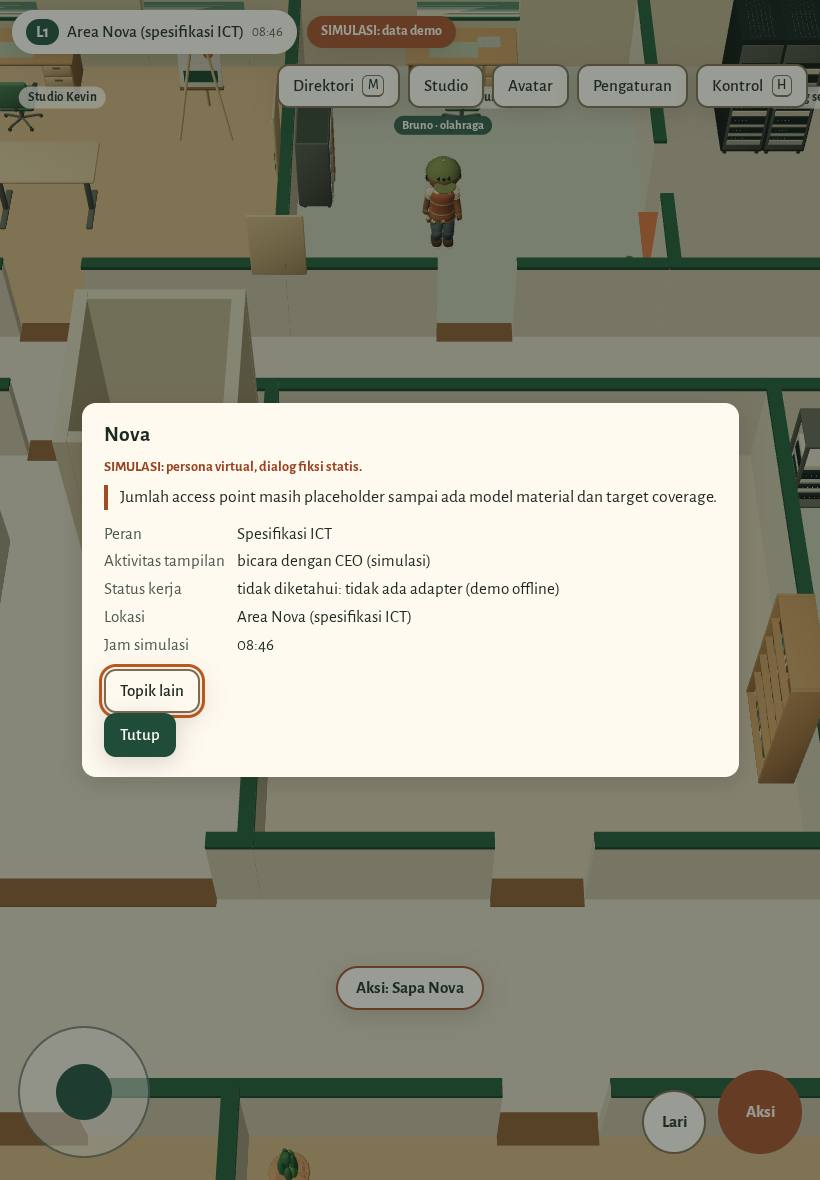
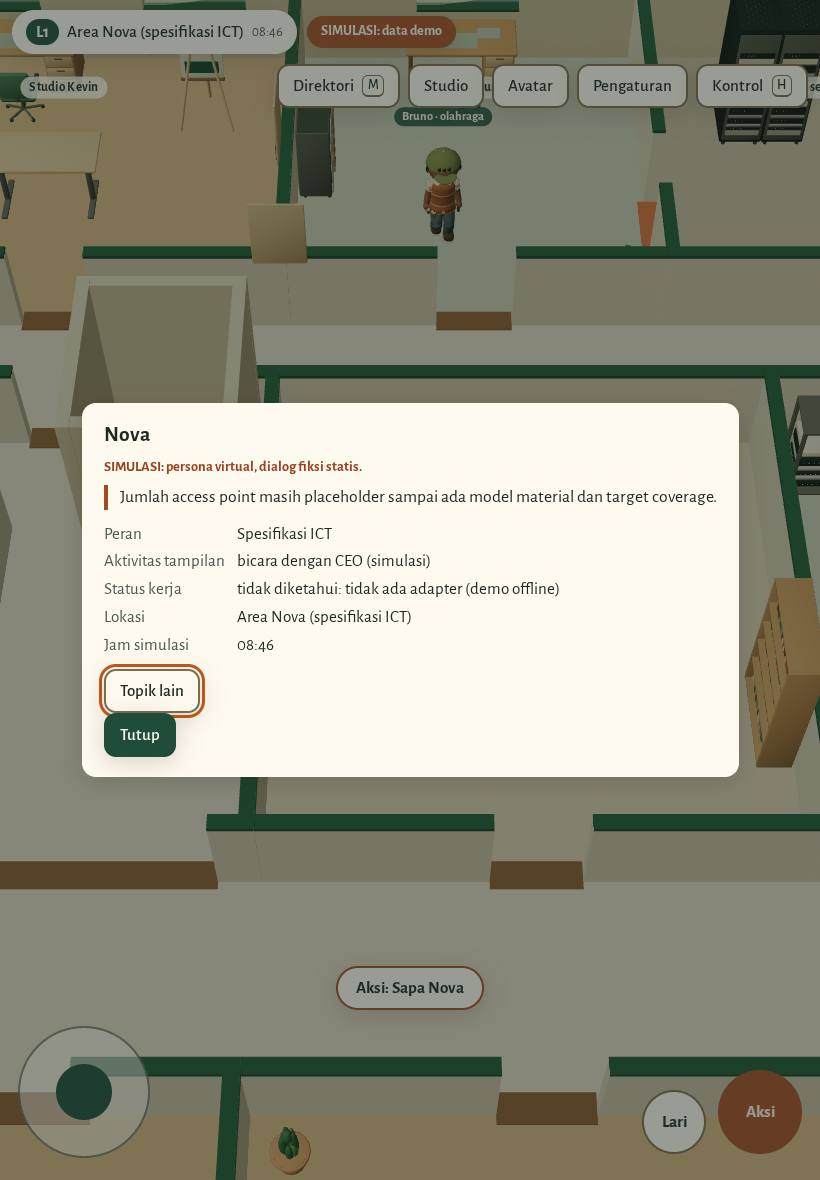
Evidence: full browser regression, unskipped touch tests, CSP check
Full run desktop/tablet/mobile: 117 passed, 0 failed, 9 skipped (run
started before three tests were unskipped; those ran separately: 10/10).
The proposed preview CSP was tested with scripts/serve-csp.mjs: the first
version blocked GLTFLoader blob: texture fetches (run1 log, 2 failures);
connect-src 'self' blob: fixes it (24/24 desktop specs).

Claude-Session: https://claude.ai/code/session_01AU9ZR7KSPvCHqU8yFcUYNn

diff --git a/docs/requirements-matrix.md b/docs/requirements-matrix.md
@@ -1,6 +1,6 @@
 # Matriks requirement
 
-Dibuat dari `design/requirements.json` oleh `tools/req_matrix.py` (basis commit b23a0ea; evidence menunjuk file di repo).
+Dibuat dari `design/requirements.json` oleh `tools/req_matrix.py` (basis commit 4b10b0b; evidence menunjuk file di repo).
 Status hanya 'terverifikasi' bila bagian itu punya evidence file hasil eksekusi pada commit tercatat. Evidence kosong = belum diuji.
 
 | REQ | Milestone | Bagian | Test | Evidence | Status |
@@ -12,7 +12,7 @@ Status hanya 'terverifikasi' bila bagian itu punya evidence file hasil eksekusi 
 | REQ-CHAR-01 | M1/M2 | M0 data: actor record, role, homeSeat, simulated=true | tools/validate_world.py::actors_home_seats_exist<br>design/world.schema.json | docs/evidence/M0/validate-world.json | terverifikasi |
 | REQ-CHAR-01 | M1/M2 | M1 asset: 7 GLB karakter original, registry, 13 animasi, reopen/validate | blender/validate_assets.py<br>tests/py/test_assets.py | docs/evidence/M1/blender-validate.json<br>docs/evidence/M1/blender-validate-rerun.txt<br>assets/previews/ch-ceo-sheet.png | terverifikasi |
 | REQ-CHAR-01 | M1/M2 | M2 runtime: NPC spawn, label peran, animasi per aktivitas | app/tests/e2e/npc.spec.ts | docs/evidence/M2/e2e-all.txt<br>docs/evidence/M2/screenshots/desktop-npcs.jpg<br>docs/evidence/M2/e2e-npc-blueprint-rerun.txt | terverifikasi |
-| REQ-CHAR-01 | M1/M2 | Hardening: atlas 1 material per karakter, LOD1 <= 5k triangle (4799-4800), 5 ekspresi wajah (blink, smile, talk, surprised, frown) sebagai morph target; dieksekusi, blend/GLB dibuka ulang dan divalidasi; runtime memakai LOD1 > 8 m dan ekspresi saat bicara | blender/validate_assets.py<br>tests/py/test_assets.py<br>app/tests/e2e/npc.spec.ts<br>app/tests/e2e/budget.spec.ts | docs/evidence/HARDENING/blender-characters-validate.txt<br>docs/evidence/HARDENING/pytest-blender.txt<br>assets/previews/character-expressions.png<br>assets/previews/character-lod.png | terverifikasi |
+| REQ-CHAR-01 | M1/M2 | Hardening: atlas 1 material per karakter, LOD1 <= 5k triangle (4799-4800), 5 ekspresi wajah (blink, smile, talk, surprised, frown) sebagai morph target; dieksekusi, blend/GLB dibuka ulang dan divalidasi; runtime memakai LOD1 > 8 m dan ekspresi saat bicara | blender/validate_assets.py<br>tests/py/test_assets.py<br>app/tests/e2e/npc.spec.ts<br>app/tests/e2e/budget.spec.ts | docs/evidence/HARDENING/blender-characters-validate.txt<br>docs/evidence/HARDENING/pytest-blender.txt<br>assets/previews/character-expressions.png<br>assets/previews/character-lod.png<br>docs/evidence/HARDENING/e2e-all.txt | terverifikasi |
 | REQ-CHAR-01 | M1/M2 | M3: 54 keluarga furniture original + shell bangunan, registry 63 aset generated+validated | blender/furniture/validate_furniture.py<br>tests/py/test_furniture_assets.py | docs/evidence/M3/furniture-validate.json<br>assets/previews/furniture-sheet.png | terverifikasi |
 | REQ-INTERACT-01 | M2 | M2: E/Aksi/Temui membuka satu panel persona, locomotion berhenti, Escape menutup dan focus kembali, NPC pause/resume | app/tests/e2e/npc.spec.ts<br>app/tests/e2e/world.spec.ts | docs/evidence/M2/e2e-all.txt<br>docs/evidence/M2/screenshots/desktop-npc-dialog.jpg<br>docs/evidence/M2/e2e-npc-blueprint-rerun.txt | terverifikasi |
 | REQ-INTERACT-01 | M2 | M2: interaksi furnitur (duduk, workstation, biliar, game, gym) dengan reservasi bersama NPC; kursi terpakai ditolak dengan pesan | app/tests/e2e/activity.spec.ts | docs/evidence/M2/e2e-all.txt<br>docs/evidence/M2/screenshots/desktop-billiards.jpg | terverifikasi |
@@ -31,7 +31,7 @@ Status hanya 'terverifikasi' bila bagian itu punya evidence file hasil eksekusi 
 | REQ-ICT-01 | M0/M3 | M0: port map tanpa duplikat, panjang dari route tray, <= 90 m target, spare switch >= 20% | tools/ict_derive.py<br>tests/py/test_ict.py | design/derived/ict-portmap.json<br>docs/evidence/M0/failure-paths/ict-switch-spare-below-target.txt | terverifikasi |
 | REQ-ICT-01 | M0/M3 | PoE budget switch, rating UPS, thermal | - | - | asumsi |
 | REQ-ICT-01 | M0/M3 | M3: gambar ICT-001/101/102/201/301/401 konsisten dengan port map (ID, panjang total, U rack) | tests/py/test_cad_m3.py | docs/evidence/M3/cad-pytest.txt | terverifikasi |
-| REQ-ICT-01 | M0/M3 | Outlet ICT ikut furniture di Office Studio: pindah/hapus/tambah, undo/redo, export v2 + import menolak outlet yang diedit, publish/rollback; paritas Python/TS; ict_derive.py --layout | tests/py/test_ict_follow.py<br>app/tests/unit/ict.test.ts<br>app/tests/e2e/studio.spec.ts | docs/evidence/HARDENING/pytest.txt<br>docs/evidence/HARDENING/vitest.txt | terverifikasi |
+| REQ-ICT-01 | M0/M3 | Outlet ICT ikut furniture di Office Studio: pindah/hapus/tambah, undo/redo, export v2 + import menolak outlet yang diedit, publish/rollback; paritas Python/TS; ict_derive.py --layout | tests/py/test_ict_follow.py<br>app/tests/unit/ict.test.ts<br>app/tests/e2e/studio.spec.ts | docs/evidence/HARDENING/pytest.txt<br>docs/evidence/HARDENING/vitest.txt<br>docs/evidence/HARDENING/e2e-all.txt | terverifikasi |
 | REQ-ACCESS-01 | M1/M2 | M1: fallback ?nogl=1, direktori keyboard, focus kembali, reduced motion (viewport emulasi) | app/tests/e2e/world.spec.ts | docs/evidence/M1/e2e-world.txt<br>docs/evidence/M1/screenshots/desktop-fallback.jpg<br>docs/evidence/M1/contrast.json | terverifikasi |
 | REQ-ACCESS-01 | M1/M2 | M2: axe-core WCAG 2.1 A/AA tanpa pelanggaran (dunia, direktori, dialog, fallback; terang dan gelap) | app/tests/e2e/a11y.spec.ts<br>tools/contrast.py | docs/evidence/M2/e2e-all.txt<br>docs/evidence/M2/axe/desktop-light-world.json<br>docs/evidence/M2/contrast.json | terverifikasi |
 | REQ-ACCESS-01 | M1/M2 | Perangkat mobile/tablet nyata dan screen reader | - | - | belum diuji |
@@ -40,12 +40,12 @@ Status hanya 'terverifikasi' bila bagian itu punya evidence file hasil eksekusi 
 | REQ-PERF-01 | M1-M3 | M0: anggaran transfer/triangle dihitung | tools/capacity.py | design/derived/capacity.json | asumsi |
 | REQ-PERF-01 | M1-M3 | M1: harness rute tetap 60 s berjalan dan tercatat (container SwiftShader) | app/tests/e2e/perf.spec.ts | docs/evidence/M1/perf-route-desktop.json | terverifikasi |
 | REQ-PERF-01 | M1-M3 | Target 60 FPS desktop / 30 FPS mobile pada perangkat pilihan Budi | app/tests/e2e/perf.spec.ts | - | belum diuji |
-| REQ-PERF-01 | M1-M3 | Anggaran draw call mobile <= 150 dan triangle <= 250k: puncak per frame selama rute tetap 25 s, desktop/tablet/mobile (draw call dan triangle tidak bergantung kecepatan GPU) | app/tests/e2e/budget.spec.ts | docs/evidence/HARDENING/budget-desktop.json<br>docs/evidence/HARDENING/budget-mobile.json | terverifikasi |
+| REQ-PERF-01 | M1-M3 | Anggaran draw call mobile <= 150 dan triangle <= 250k: puncak per frame selama rute tetap 25 s, desktop/tablet/mobile (draw call dan triangle tidak bergantung kecepatan GPU) | app/tests/e2e/budget.spec.ts | docs/evidence/HARDENING/budget-desktop.json<br>docs/evidence/HARDENING/budget-mobile.json<br>docs/evidence/HARDENING/budget-tablet.json<br>docs/evidence/HARDENING/e2e-unskipped-touch.txt | terverifikasi |
 | REQ-SAFE-01 | semua | M0: secret/URL/file allowlist scan repo | tools/safety_scan.py | docs/evidence/M0/safety-scan.txt | terverifikasi |
 | REQ-SAFE-01 | semua | M1: runtime hanya request same-origin; safety scan | app/tests/e2e/world.spec.ts<br>tools/safety_scan.py | docs/evidence/M1/e2e-world.txt | terverifikasi |
 | REQ-SAFE-01 | semua | Audit lisensi dependency npm/pip | tools/license_audit.py | docs/evidence/M3/license-audit.json | terverifikasi |
 | REQ-SAFE-01 | semua | Provenance: setiap file app/public dipetakan ke generator repo (GLB registry, artwork make_signage, PDF hasil generate, teks lisensi); file asing gagal | tests/py/test_provenance.py | docs/evidence/HARDENING/pytest.txt | terverifikasi |
-| REQ-SAFE-01 | semua | Keamanan: safety scan teks repo, npm audit runtime + dev, audit lisensi | tools/safety_scan.py<br>tools/license_audit.py | docs/evidence/HARDENING/safety-scan.txt<br>docs/evidence/HARDENING/npm-audit-runtime.txt<br>docs/evidence/HARDENING/npm-audit-all.txt<br>docs/evidence/HARDENING/license-audit.json | terverifikasi |
+| REQ-SAFE-01 | semua | Keamanan: safety scan teks repo, npm audit runtime + dev, audit lisensi | tools/safety_scan.py<br>tools/license_audit.py | docs/evidence/HARDENING/safety-scan.txt<br>docs/evidence/HARDENING/npm-audit-runtime.txt<br>docs/evidence/HARDENING/npm-audit-all.txt<br>docs/evidence/HARDENING/license-audit.json<br>docs/evidence/HARDENING/e2e-csp-desktop.txt<br>docs/evidence/HARDENING/e2e-csp-desktop-run1.txt | terverifikasi |
 
 Ringkasan status bagian: asumsi 2, belum diuji 2, terverifikasi 35, tidak didukung 2.
 

diff --git a/docs/PREVIEW-HANDOFF.md b/docs/PREVIEW-HANDOFF.md
@@ -22,7 +22,7 @@ Output statis ada di `app/dist/` (HTML, JS, CSS, font OFL, GLB, JPG artwork, PDF
 
 - Sajikan `app/dist/` apa adanya; path relatif, jadi subpath juga bisa.
 - MIME `model/gltf-binary` untuk `.glb` dan `application/pdf` untuk `.pdf` (keduanya default di hosting statis umum).
-- Header yang disarankan (belum diuji pelaksana karena `vite preview` tidak memasang header; jalankan smoke test di bawah setelah header dipasang): `Content-Security-Policy: default-src 'self'; img-src 'self' blob: data:; style-src 'self' 'unsafe-inline'; worker-src 'self' blob:` (GLTFLoader memakai blob URL untuk tekstur tertanam), `X-Content-Type-Options: nosniff`, `Referrer-Policy: no-referrer`.
+- Header yang disarankan (diuji lokal dengan `app/scripts/serve-csp.mjs` + suite desktop, lihat `docs/evidence/HARDENING/e2e-csp-desktop.txt`; host nyata tetap perlu smoke test di bawah): `Content-Security-Policy: default-src 'self'; connect-src 'self' blob:; img-src 'self' blob: data:; style-src 'self' 'unsafe-inline'; worker-src 'self' blob:` (GLTFLoader mengambil tekstur tertanam lewat blob URL; tanpa connect-src blob: tekstur karakter gagal dimuat, terbukti di e2e-csp-desktop-run1.txt), `X-Content-Type-Options: nosniff`, `Referrer-Policy: no-referrer`.
 - Cache panjang hanya untuk `assets/*-<hash>.js|css`; GLB dan PDF tanpa hash, jadi cache pendek atau revalidasi.
 
 ## Cek sebelum ganti SHA (di mesin build)
